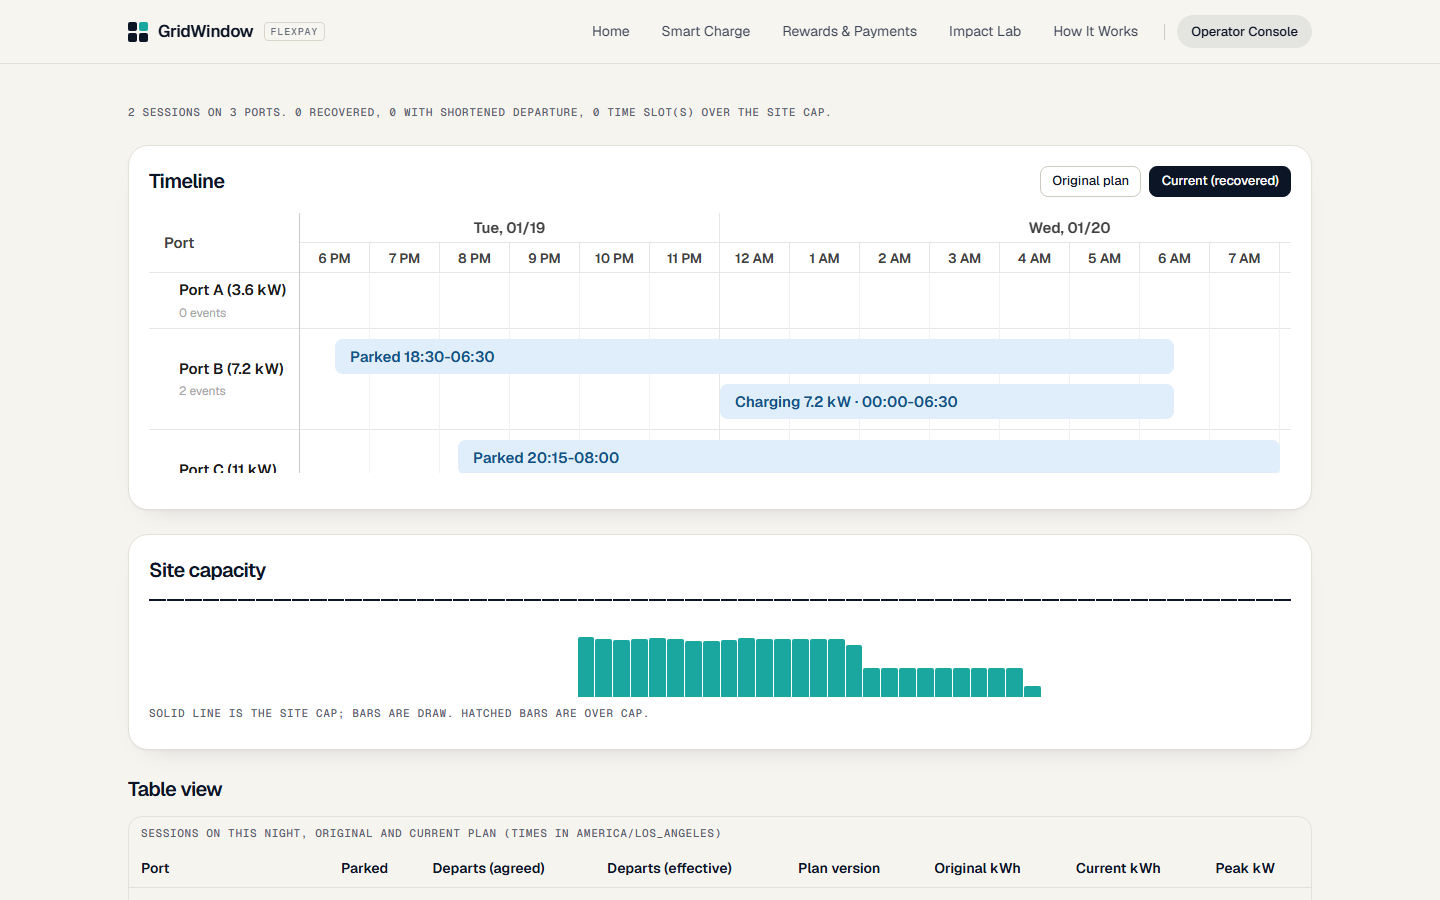
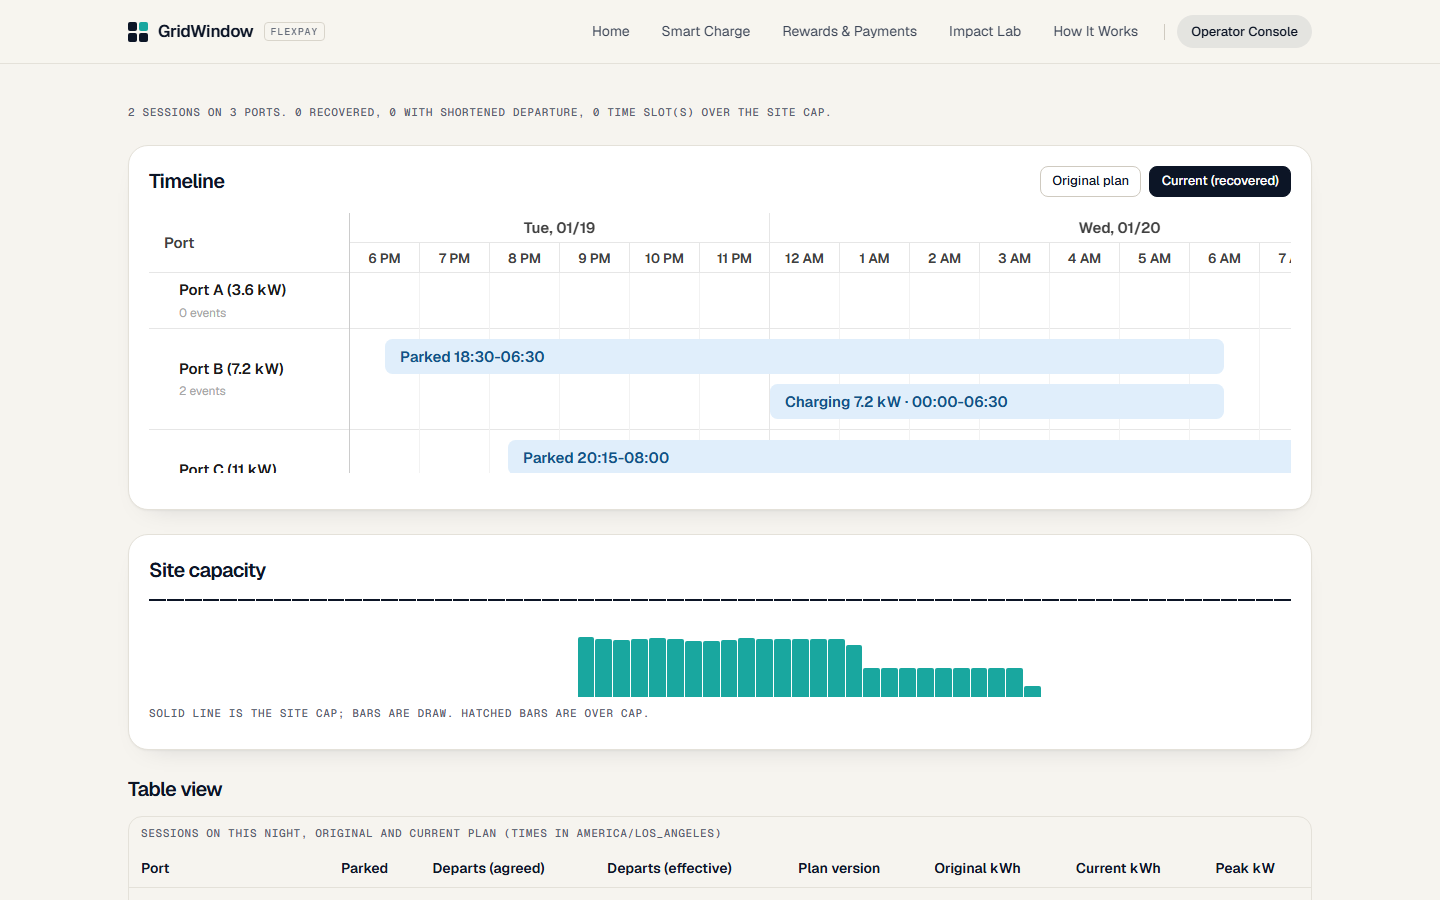
docs: deployment runbook, licence evidence, architecture notes, final counts and certification addendum

diff --git a/docs/DEPLOYMENT_RUNBOOK.md b/docs/DEPLOYMENT_RUNBOOK.md
@@ -1,0 +1,39 @@
+# Deployment runbook (judge-accessible demo)
+
+**Status: PREPARED, NOT EXECUTED.** Nothing here has been deployed. Deployment, a public repository and any provider call each need the owner's separate approval. Payments are PayPal **Sandbox** only (`PAYPAL_ENV=sandbox`, enforced by the app) or MOCK.
+
+## Before deploying
+1. `main` must be the certified commit (`git rev-parse origin/main`) and `docs/FINAL_AUTOMATED_CERTIFICATION.md` must show all gates PASS for it.
+2. Clean-clone check: `git clone <repo> && npm ci && npm run build` succeeds with no environment file.
+3. The repository stays PRIVATE until the owner approves publishing it. Run `npm run release:scan` on the production build and the secret scan in `docs/LICENSE_AND_SECRETS_CHECKLIST.md`.
+
+## Environment (set in the host's secret store, never committed)
+| Variable | Value for a judge demo |
+|---|---|
+| `PAYMENT_MODE` | `mock` for a no-provider demo, or `paypal` with sandbox credentials |
+| `PAYPAL_ENV` | `sandbox` (anything else makes the app refuse to start) |
+| `PAYPAL_CLIENT_ID`, `PAYPAL_CLIENT_SECRET`, `PAYPAL_WEBHOOK_ID` | Sandbox application credentials, server-side only |
+| `APP_BASE_URL` | the public HTTPS origin of the deployment |
+| `TRUST_PROXY` | `true` only behind the host's trusted proxy; leave unset otherwise (all callers then share one rate-limit bucket, which fails closed) |
+| `SESSION_SECRET` | 32+ random characters |
+| `OPERATOR_PASSPHRASE` | 12+ characters; operator console is disabled without it |
+| `DATABASE_URL` | PostgreSQL, if persistence is wanted; otherwise embedded PGlite on a writable `GW_DATA_DIR` (data is lost on redeploy on ephemeral disks) |
+| `GEMINI_API_KEY`, `GEMINI_MODEL` | optional; without them the deterministic fallback runs and is labelled as such. Verified model id: `gemini-3.6-flash` |
+| `GW_AUTO_MIGRATE` | never `true` for a persistent database |
+
+## Database
+- The app never migrates an external PostgreSQL at startup. If the schema does not match, the app fails closed with the exact command to run.
+- Order: back up or branch the database, `npm run db:migrate -- --status` (note the fingerprint of host + port + database name), `--plan`, test on an isolated branch/copy, then `--apply --confirm-database <fingerprint>` on the intended database. Re-read the fingerprint for every target.
+- Neon currently lacks migrations 003-005. See `docs/MIGRATIONS.md` and `docs/EXTERNAL_PREFLIGHT.md`.
+
+## Build and start
+`npm ci && npm run build && npm start` (Node 22+). Health check: `GET /` returns 200; `/operator` shows the sign-in form when `OPERATOR_PASSPHRASE` is set.
+
+## Webhook (PayPal Sandbox only)
+Register `https://<APP_BASE_URL host>/api/webhooks/paypal` for the Sandbox application and put its id in `PAYPAL_WEBHOOK_ID`. Webhook handling verifies the signature against the unaltered body and re-reads provider state; a webhook alone never sets CAPTURED or VOIDED.
+
+## Rollback
+Redeploy the previous commit. Migrations are additive (001-005), so the previous build still reads a migrated database only if it knows those migrations; take a database backup or branch before migrating and restore it if you need an older build.
+
+## Smoke test after deploy (read-only, no money)
+Open `/`, `/drive`, `/how-it-works`, `/impact-lab`, `/rewards`; sign in to `/operator`; in MOCK mode run one booking to a FlexReceipt. Confirm every provider-related label reads "MOCK" or "PayPal Sandbox (test money)" and that disturbances are labelled SYNTHETIC.

diff --git a/docs/FINAL_AUTOMATED_CERTIFICATION.md b/docs/FINAL_AUTOMATED_CERTIFICATION.md
@@ -54,3 +54,17 @@ Operator authorization, driver session isolation, input validation, CSRF/origin 
 
 ## External certification still required (NEEDS USER APPROVAL)
 One bounded real Gemini retry (the earlier attempt returned HTTP 504); up to two PayPal Sandbox transactions with manual buyer approval; Neon migrations 003-005 after a backup or branch; deployment, public release and Devpost. Until then a live Gemini decision, recovery-linked Sandbox evidence and the Neon schema are BLOCKED / NOT TESTED.
+
+## Addendum: final completion run (same branch, later commit)
+Re-run on the final source after the fixes below: `npm ci`, `tsc` and `eslint` clean; Vitest **806 passed, 12 skipped, 0 failed** (802 + 4 new copy tests); real PostgreSQL **47 passed** (serial, disposable cluster, then deleted); Playwright **21 spec files, 0 failed, 6 skipped** (`qa.spec.ts`), one worker per spec; default and `.next-release` builds, `release:scan`, `npm audit --omit=dev` (0 vulnerabilities) all PASS; recovery benchmark twice byte-identical and unchanged from the committed file.
+
+Fixed in this run:
+- **QA-4 (copy):** after the driver approves a change the receipt no longer says "Recovered automatically" or "Nothing changes until you approve it". The run heading reads "Approved by you and applied" and the narrative says "You approved this change, so it was applied" (stored data unchanged; derived when the receipt is built). Regression: `tests/unit/recoveryCopy.test.ts` and an assertion in `recoveryDriver.spec.ts`.
+- **QA-5 (copy):** an early-departure explanation now names the new departure ("Your departure moved to 06:00 ...") instead of the event time. Regression: `recoveryCopy.test.ts`.
+- **QA-6:** the Bryntum Port column is 200 px wide (the clipped-text sweep passes). Screenshots still not visually inspected by the agent.
+- Bryntum licence: registry metadata and lockfile evidence recorded in `docs/LICENSE_AND_SECRETS_CHECKLIST.md`; the in-package LICENSE file was not read (deny rule, not circumvented).
+- Docs: `ARCHITECTURE.md` (late/orphan authorizations, fingerprint), `MIGRATIONS.md`, `README.md` and evidence counts, new `docs/DEPLOYMENT_RUNBOOK.md` (prepared, not executed).
+
+Unchanged by design: the Kolkata-style half-hour browser-zone tick residual (documented, 2 expected-failure tests), the Bryntum vendor axe findings, and QA-2 (an anonymous caller can briefly lock the operator login; forged forwarding headers cannot bypass the limiter).
+
+Checkpoints NOT executed (NEEDS USER APPROVAL): live Gemini call, PayPal Sandbox transactions, any Neon connection or migration, deployment.

diff --git a/docs/ARCHITECTURE.md b/docs/ARCHITECTURE.md
@@ -122,6 +122,10 @@ In MOCK payment mode the payment step says "MOCK PAYMENT PROVIDER". It is not Pa
 
 **Migrations and schema refusal.** Migrations run on PGlite on open, in the disposable test helpers, and only when `GW_AUTO_MIGRATE=true`. An external database is never migrated at startup. `openPostgres` throws `SchemaNotReadyError` when the ledger has pending, unknown or drifted migrations, and the runtime serves errors until the schema matches. The apply path is `npm run db:migrate` with `--status`, `--plan` and `--apply --confirm-database <fingerprint>`. See [MIGRATIONS.md](MIGRATIONS.md). Migrations 003 to 005 are not yet applied to the hosted Neon database.
 
+**Late and orphan authorizations.** A checkout in flight can create a PayPal authorization after the reservation has already failed or been cancelled. Reconciliation and the five-minute sweep therefore also select FAILED and CANCELLED rows that hold a provider order id but no authorization id. The sweep reads provider truth with one `getOrder` call per row per pass (bounded by the batch size), stores the authorization id under the row lock, and voids it. A repeated checkout return reads provider state instead of authorizing twice when the AUTHORIZE operation already succeeded. State-change events (conflict, provider unavailable, orphan void failure) are written once per distinct state through `appendEventOnce`. Covered by `tests/integration/authorizationRace.test.ts` (PGlite and real PostgreSQL).
+
+**Migration target fingerprint.** `npm run db:migrate` prints a 12-hex fingerprint of the target host, port and database name (credentials and query options excluded). `--apply` refuses unless `--confirm-database` equals it, so two databases on one server cannot be confused.
+
 **Services map (`src/server/services/`).**
 
 | File | Responsibility |

diff --git a/docs/AWARD_EVIDENCE.md b/docs/AWARD_EVIDENCE.md
@@ -11,7 +11,7 @@ Status labels:
 
 Evidence kinds: **MOCK** means the built-in MOCK payment provider, a scripted model, or a seeded synthetic run. **Provider** means a real PayPal Sandbox or Gemini call. MOCK results are not live validation.
 
-Final combined-tree results used below: TypeScript 0 errors; ESLint 0; Vitest 740 passed, 12 skipped (the 12 are the gated real-PostgreSQL tests in `tests/integration/postgres.test.ts`; with `TEST_DATABASE_URL` set on a disposable local PostgreSQL 18.1 they ran and 11 passed, 1 skipped for the restart test); Playwright 16 spec files run one at a time with one worker and isolated data: 0 failed, 6 skipped (keyboard-journey tests on mobile and tablet by design); both production builds pass; `release:scan` PASS; `npm audit --omit=dev` 0 vulnerabilities; the recovery benchmark is deterministic across two runs.
+Final combined-tree results used below: TypeScript 0 errors; ESLint 0; Vitest 806 passed, 12 skipped (the 12 are the gated real-PostgreSQL tests in `tests/integration/postgres.test.ts`; with `TEST_DATABASE_URL` set on a disposable local PostgreSQL 18.1 they ran and 11 passed, 1 skipped for the restart test); Playwright 16 spec files run one at a time with one worker and isolated data: 0 failed, 6 skipped (keyboard-journey tests on mobile and tablet by design); both production builds pass; `release:scan` PASS; `npm audit --omit=dev` 0 vulnerabilities; the recovery benchmark is deterministic across two runs.
 
 ---
 

diff --git a/README.md b/README.md
@@ -268,9 +268,9 @@ Results on the final combined-release tree:
 | Check | Result |
 |---|---|
 | TypeScript strict check (`tsc --noEmit`) and ESLint | 0 errors, 0 problems |
-| Vitest (unit and integration, including adversarial payment cases on embedded PostgreSQL) | 740 passed, 12 skipped (the skipped tests are the gated real-PostgreSQL checks) |
+| Vitest (unit and integration, including adversarial payment cases on embedded PostgreSQL) | 806 passed, 12 skipped (the skipped tests are the gated real-PostgreSQL checks) |
 | Real-PostgreSQL checks on a disposable local PostgreSQL 18.1 server (separate run) | 11 passed, 1 skipped (restart test needs `TEST_PG_RESTART_CMD`) |
-| Playwright (16 spec files, one worker, isolated data; axe accessibility and keyboard tests) | 0 failed, 6 skipped by design |
+| Playwright (21 spec files, one worker, isolated data; axe accessibility and keyboard tests) | 0 failed, 6 skipped by design |
 | Production builds | pass |
 | `npm run release:scan` (secret and configured-value scan of the client bundle) | PASS |
 | `npm audit --omit=dev` | 0 vulnerabilities |

diff --git a/docs/LICENSE_AND_SECRETS_CHECKLIST.md b/docs/LICENSE_AND_SECRETS_CHECKLIST.md
@@ -40,3 +40,8 @@
 
 - Owner review required for the Bryntum license line before any public release.
 - No secrets in the repository: supported by the scans above, not by a full history scan (`git log -p` was not searched).
+
+## Bryntum licence verification (2026-11-09, registry metadata only)
+- `npm view @bryntum/scheduler-community@8.0.0 license` and `npm view @bryntum/scheduler-react-community@8.0.0 license` both return `MIT`.
+- `package-lock.json` pins both at 8.0.0 with `"license": "MIT"` and an `integrity` hash equal to the registry's `dist.integrity` for `scheduler-community` (`sha512-NcvzQqTy...rREw==`).
+- Not verified: the LICENSE file shipped inside the installed package (reading `node_modules` is denied in this environment and was not circumvented), and Bryntum's own licence page, which lists only End-User and OEM terms. No Bryntum purchase, trial key or commercial licence is used. `THIRD_PARTY_NOTICES.md` carries the MIT notice; the owner should open the package LICENSE once before submission.

diff --git a/docs/DEVPOST.md b/docs/DEVPOST.md
@@ -46,7 +46,7 @@ Live evidence (Gemini, 2026-11-05, free-tier key, synthetic fixtures, before the
 - Making a disturbance re-plan respect what the driver already agreed, including energy already delivered and the price.
 
 ## Accomplishments
-- Final combined-branch checks: TypeScript and ESLint clean; Vitest 740 passed, 12 skipped; Playwright 0 failed, 6 skipped; both production builds pass; release scan passes; no production dependency vulnerabilities reported by `npm audit`.
+- Final combined-branch checks: TypeScript and ESLint clean; Vitest 806 passed, 12 skipped; Playwright 0 failed, 6 skipped; both production builds pass; release scan passes; no production dependency vulnerabilities reported by `npm audit`.
 - The gated real-PostgreSQL tests passed on a disposable local PostgreSQL 18.1 server (11 passed, 1 skipped for the restart test).
 - A recovery benchmark over 200 seeded synthetic nights, deterministic across runs. It reports unfavorable and infeasible cases next to the wins.
 
